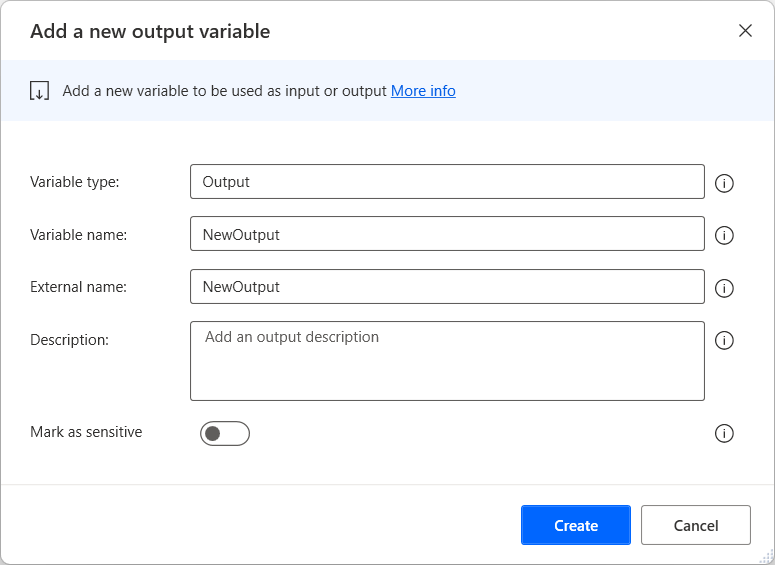
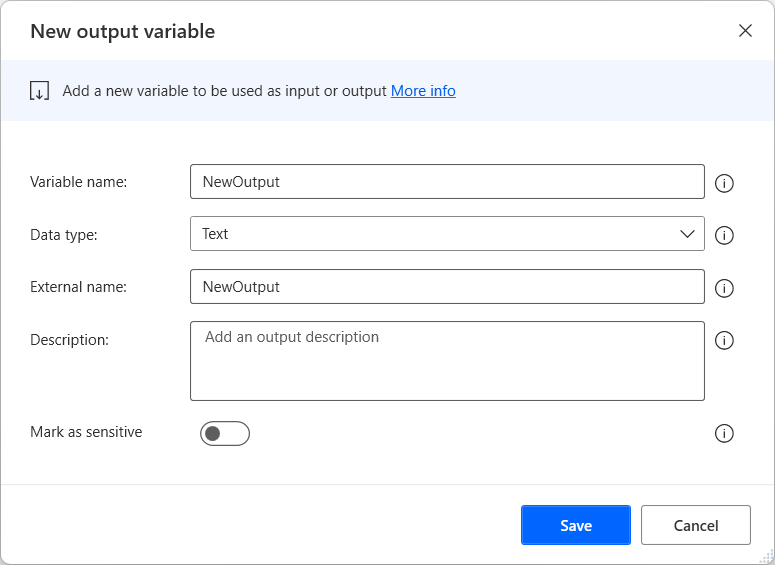
Updates in Create an output variable

diff --git a/articles/desktop-flows/manage-variables.md b/articles/desktop-flows/manage-variables.md
@@ -76,22 +76,20 @@ To create an input variable:
     - **Variable name**: The name of the variable in the flow.
     - **Data type**: The type of the variable: text, number, boolean, custom object, list or datatable.
     - **Default value**: The default value when the flow runs from the Power Automate flow designer or the Power Automate console. When creating a custom object, list, or datatable input variable, Power Automate allows you to construct the default value through a visual editor or a JSON editor.
-
         ![Screenshot of a custom object input variable in the visual editor.](media\input-output-variables\custom-object-input-variable.png)
-
     - **External name**: The name used outside the flow. The external name is the name that will appear in Power Automate.
     - **Description**: A description of the variable that will appear in Power Automate and the Flow inputs dialog.
     - **Mark as sensitive**: Defines whether to mark the variable as sensitive or not. You can find information regarding senstive variables in [Sensitive variables](#sensitive-variables).
 
     > [!NOTE]
-    > The **Variable type**, **Variable name**, **Data type**, and **External name** fields are required to create an input variable.
+    > The **Variable name**, **Data type**, and **External name** fields are required to create an input variable.
 
     > [!NOTE]
     > If you choose an existing flow variable name for a new input variable, Power Automate will prompt you to confirm the merging of the two variables. Unintentional merging may affect the functionality of your flow and cause errors. Also, you can't use the name of an existing input or output variable.
 
      ![Screenshot of the Add a new input variable dialog box.](media\input-output-variables\Add-new-input-variable-dialog.png)
 
-If you run a flow containing input variables through the console, the **Flow inputs** dialog will prompt you to set their values manually. For custom objects, lists, and datatables, the dialog allow you to populate a value using a visual editor or a JSON editor. You can find more information about running flows in [Run attended and unattended desktop flows](run-pad-flow.md). 
+If you run a flow containing input variables through the console, the **Flow inputs** dialog will prompt you to set their values manually. For custom objects, lists, and datatables, the dialog allow you to populate values using a visual editor or a JSON editor. You can find more information about running flows in [Run attended and unattended desktop flows](run-pad-flow.md). 
 
 ![Screenshot of the Flow inputs dialog.](media\input-output-variables\flow-input-dialog.png)
 
@@ -103,7 +101,7 @@ To create an output variable:
 
     ![Screnshot of the plus button in the variables pane that creates a new output variable.](media\input-output-variables\create-output-variable.png)
 
-1. When the **Add a new output variable** dialog is appeared, populate the following fields:
+1. When the **New output variable** dialog is appeared, populate the following fields:
 
     - **Variable name**: The name of the variable in the flow.
     - **Data type**: The type of the variable: text, number, boolean, custom object, list or datatable.
@@ -112,14 +110,12 @@ To create an output variable:
     - **Mark as sensitive**: Defines whether to mark the variable as sensitive or not. You can find information regarding senstive variables in [Sensitive variables](#sensitive-variables).
 
     > [!NOTE]
-    > The **Variable type**, **Variable name**, and **External name** fields are required to create an output variable.
+    > The **Variable name**, **Data type**, and **External name** fields are required to create an output variable.
 
     > [!NOTE]
     > If you choose an existing flow variable name for a new output variable, Power Automate will prompt you to confirm the merging of the two variables. Unintentional merging may affect the functionality of your flow and cause errors. Also, you can't use the name of an existing input or output variable.
 
     ![Screenshot of the Add a new output variable dialog box.](media\input-output-variables\Add-new-output-variable-dialog.png)
-
-When creating a custom object, list, or datatable input variable, Power Automate lets you construct a default value through a visual builder or a JSON editor.
 
 ### Manage input and output variables
 
